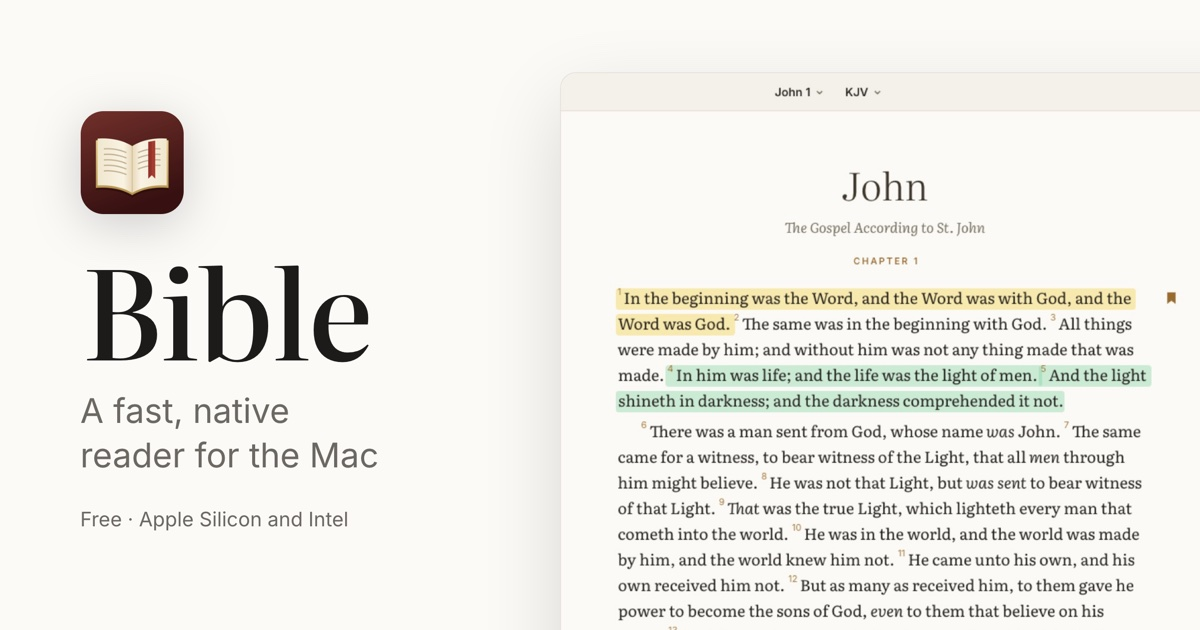
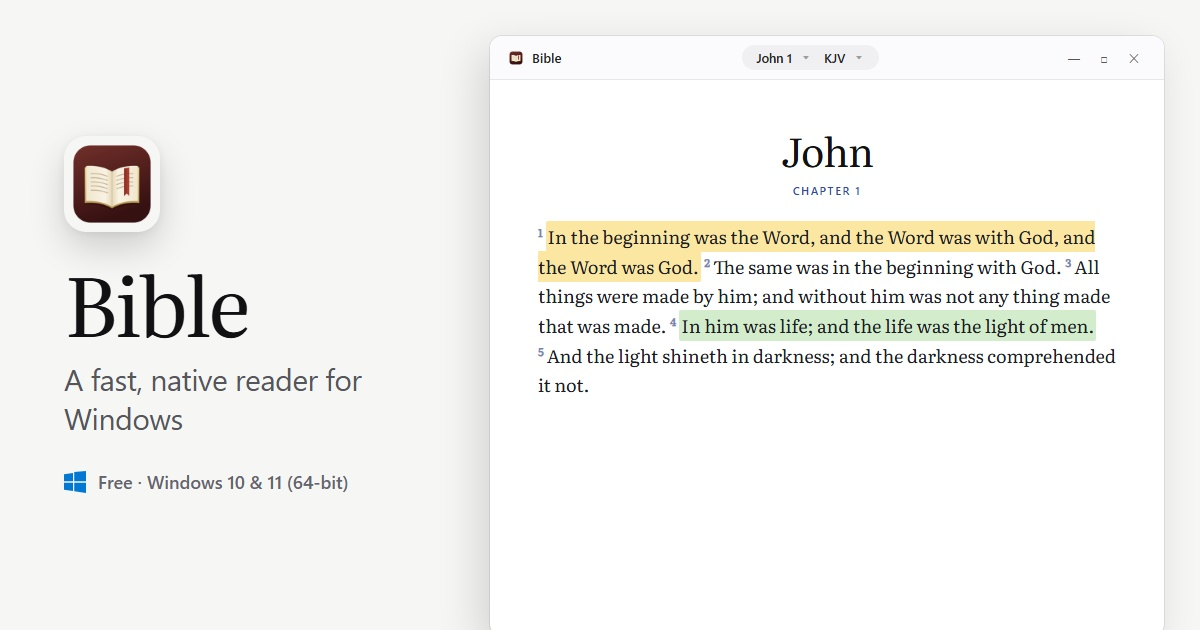
fix: replace macOS Open Graph image and metadata with Windows preview

diff --git a/src/routes/(site)/+page.svelte b/src/routes/(site)/+page.svelte
@@ -19,7 +19,7 @@
 		'A very fast, native Bible reader for Windows. Beautifully typeset, searchable as you type, with highlights, notes and bookmarks kept on your computer.';
 	const url = `${SITE_URL}/`;
 	const image = `${SITE_URL}/og.jpg`;
-	const imageAlt = `The ${NAME} app icon and name beside the reader open at John 1`;
+	const imageAlt = `${NAME}: a fast, native reader for Windows`;
 
 	const app = JSON.stringify({
 		'@context': 'https://schema.org',
@@ -101,11 +101,14 @@
 	<meta property="og:title" content={title} />
 	<meta property="og:description" content={description} />
 	<meta property="og:image" content={image} />
+	<meta property="og:image:secure_url" content={image} />
 	<meta property="og:image:type" content="image/jpeg" />
 	<meta property="og:image:width" content="1200" />
 	<meta property="og:image:height" content="630" />
 	<meta property="og:image:alt" content={imageAlt} />
 	<meta name="twitter:card" content="summary_large_image" />
+	<meta name="twitter:site" content="@stephtioluwani" />
+	<meta name="twitter:creator" content="@stephtioluwani" />
 	<meta name="twitter:title" content={title} />
 	<meta name="twitter:description" content={description} />
 	<meta name="twitter:image" content={image} />

diff --git a/src/lib/config.ts b/src/lib/config.ts
@@ -21,4 +21,4 @@ export const DOWNLOAD_URL = WINDOWS_DOWNLOAD_URL;
 /** Web reader */
 export const WEB_READER_URL = 'https://simplymybible.com/read';
 
-export const SITE_URL = 'https://simplymybible-windows.vercel.app';
+export const SITE_URL = 'https://bible.stephentioluwani.tech';
